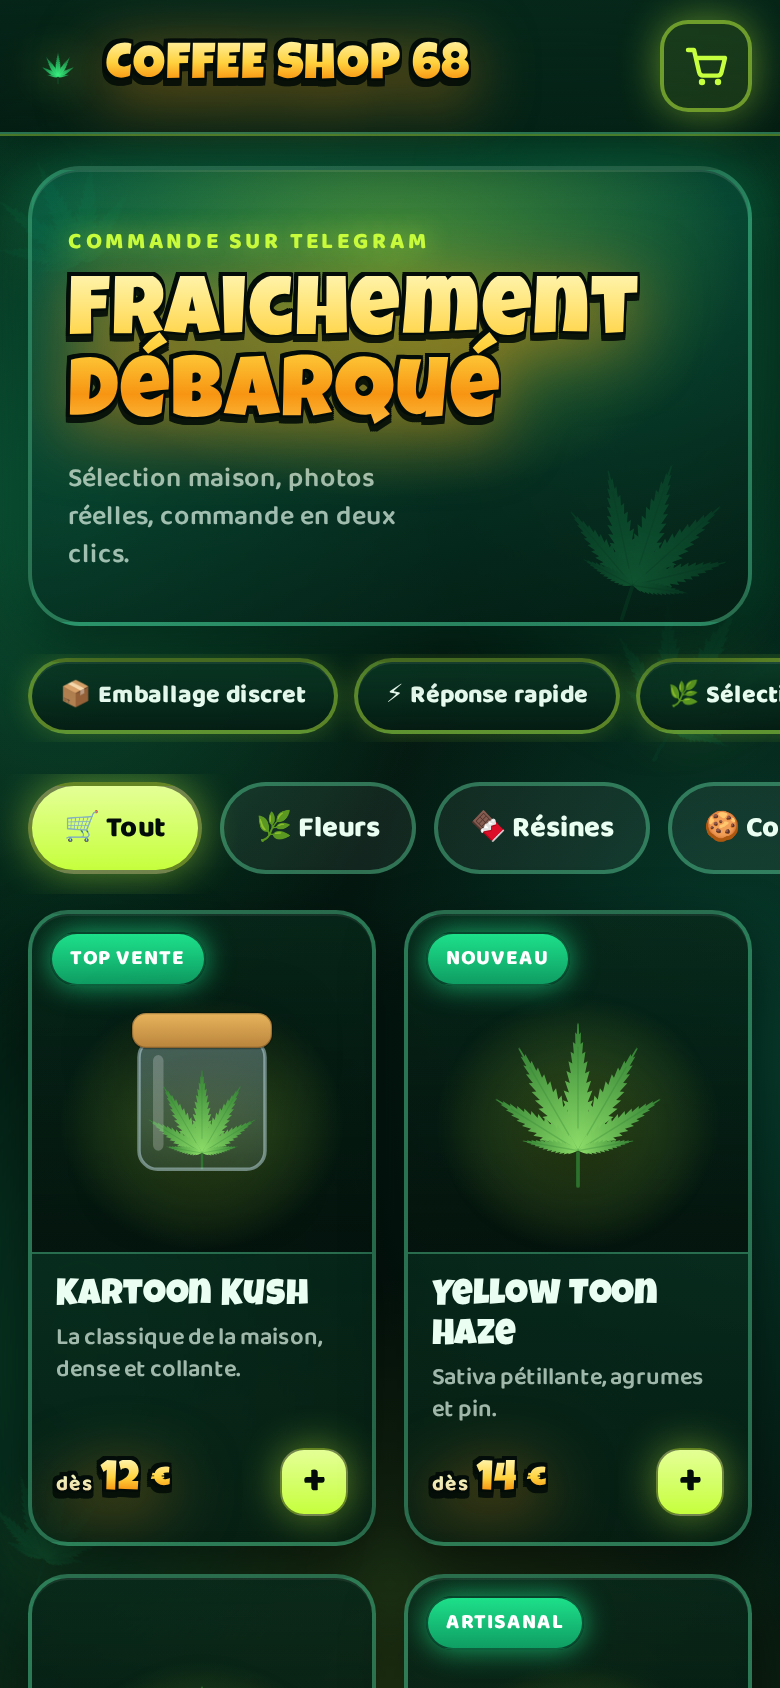
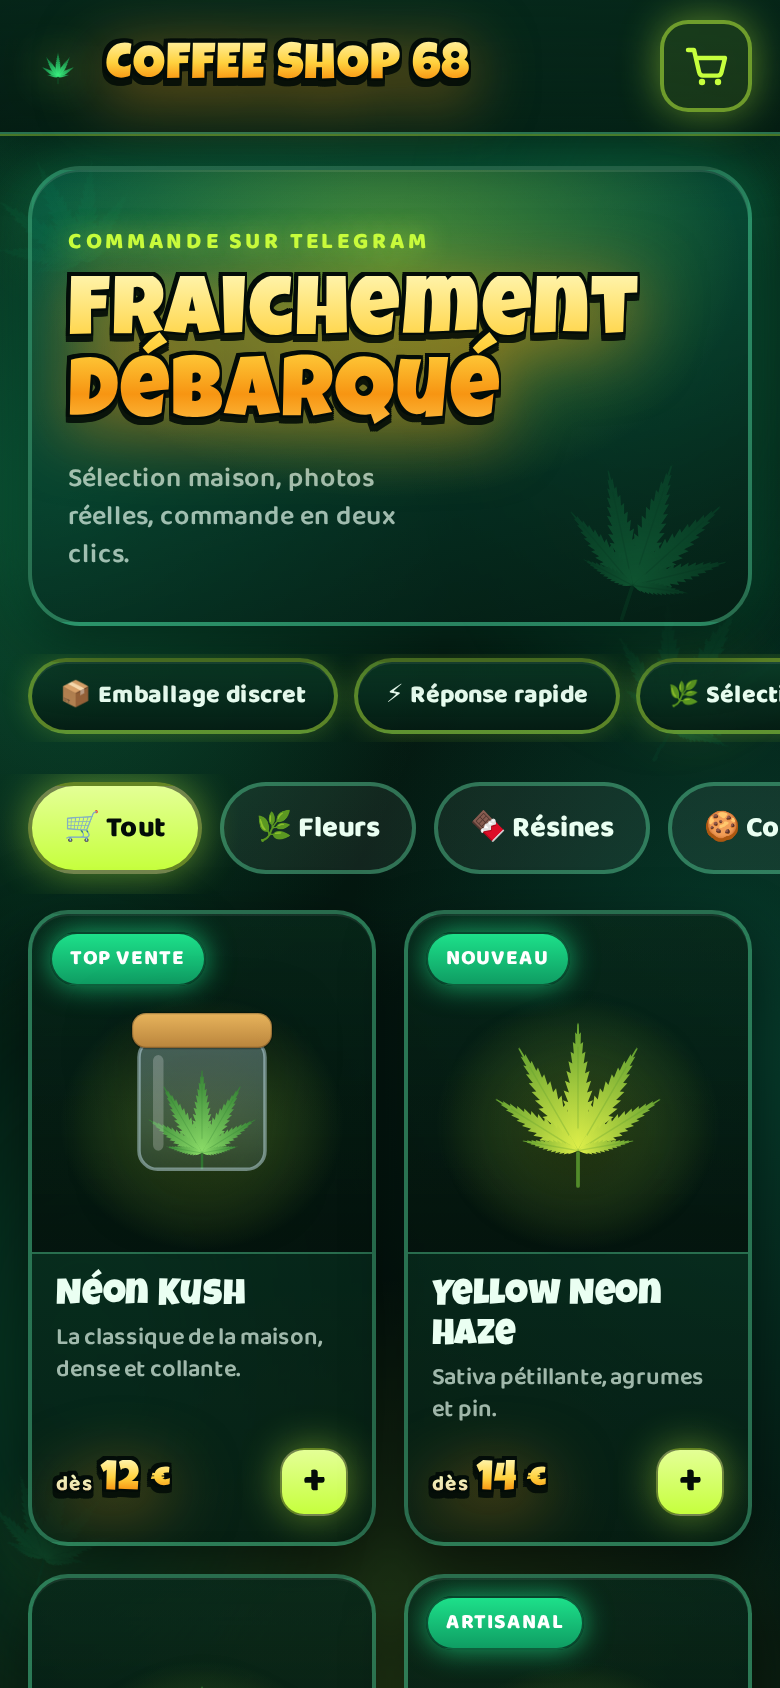
Catalogue : noms de produits alignés sur COFFEE SHOP 68
Les fiches portaient encore l'ancienne marque cartoon (Kartoon Kush,
Brique Cartoon, Carton Collector…), ce qui jurait avec l'enseigne et la
direction néon.

- noms et descriptions repris dans le registre de la maison : Néon Kush,
  Yellow Neon Haze, Midnight Cookies, Brique 68, Dry Sift 68, Gummies
  Néon, Grinder 68, Kit du rouleur, Pack Collector 68
- les identifiants ne bougent pas : ils servent de clés aux commandes
  déjà passées et aux tests
- la sativa prend son propre visuel (bud-sativa.svg), jusqu'ici inutilisé
- docs/ : captures régénérées, exemple du README à jour

Tests : 41/41.

Claude-Session: https://claude.ai/code/session_01SaLWCn5JrsAtLehJG2s7sY

Changed region(s): [[0.6462, 0.6161, 0.8308, 0.7085], [0.0923, 0.7393, 0.4, 0.7701], [0.7385, 0.7393, 0.8615, 0.7701]]

diff --git a/server/data/products.js b/server/data/products.js
@@ -20,7 +20,7 @@ export const products = [
   {
     id: 'kartoon-kush',
     stock: null, // le stock est porté par les variantes
-    name: 'Kartoon Kush',
+    name: 'Néon Kush',
     category: 'fleurs',
     price: 1200,
     image: '/assets/products/jar.svg',
@@ -30,7 +30,7 @@ export const products = [
     description:
       "Fleur indica cultivée en intérieur, séchée lentement puis affinée trois semaines en bocal. " +
       "Nez terreux et sucré, fumée ronde. Le grand classique de la maison, celui qu'on garde " +
-      "pour le canapé et les dessins animés du dimanche soir.",
+      "pour le canapé et les séries du dimanche soir.",
     variants: [
       { id: '2g', label: '2 g', price: 1200, stock: 24 },
       { id: '5g', label: '5 g', price: 2700, stock: 12 },
@@ -40,10 +40,10 @@ export const products = [
   {
     id: 'yellow-toon-haze',
     stock: null, // le stock est porté par les variantes
-    name: 'Yellow Toon Haze',
+    name: 'Yellow Neon Haze',
     category: 'fleurs',
     price: 1400,
-    image: '/assets/products/bud.svg',
+    image: '/assets/products/bud-sativa.svg',
     badge: 'NOUVEAU',
     tags: ['Sativa', 'Jour'],
     short: 'Sativa pétillante, agrumes et pin.',
@@ -60,7 +60,7 @@ export const products = [
   {
     id: 'cardboard-cookies',
     stock: null, // le stock est porté par les variantes
-    name: 'Cardboard Cookies',
+    name: 'Midnight Cookies',
     category: 'fleurs',
     price: 1600,
     image: '/assets/products/bud.svg',
@@ -77,7 +77,7 @@ export const products = [
   {
     id: 'hash-brick',
     stock: null, // le stock est porté par les variantes
-    name: 'Brique Cartoon',
+    name: 'Brique 68',
     category: 'resines',
     price: 1800,
     image: '/assets/products/hash.svg',
@@ -95,7 +95,7 @@ export const products = [
   {
     id: 'toon-dry-sift',
     stock: 8,
-    name: 'Toon Dry Sift',
+    name: 'Dry Sift 68',
     category: 'resines',
     price: 2500,
     image: '/assets/products/hash.svg',
@@ -122,7 +122,7 @@ export const products = [
   {
     id: 'gummy-pack',
     stock: 40,
-    name: 'Gummies Kartoon',
+    name: 'Gummies Néon',
     category: 'comestibles',
     price: 1200,
     image: '/assets/products/cookie.svg',
@@ -136,7 +136,7 @@ export const products = [
   {
     id: 'grinder',
     stock: 15,
-    name: 'Grinder Cartoon 4 parts',
+    name: 'Grinder 68 · 4 parts',
     category: 'accessoires',
     price: 1500,
     image: '/assets/products/grinder.svg',
@@ -144,12 +144,12 @@ export const products = [
     short: 'Aluminium, 4 parties, tamis à pollen.',
     description:
       "Grinder aluminium quatre parties avec tamis et bac à pollen, dents aiguisées, " +
-      "aimant central. Sérigraphie cartoon exclusive de la maison sur le couvercle.",
+      "aimant central. Sérigraphie néon exclusive de la maison sur le couvercle.",
   },
   {
     id: 'rolling-kit',
     stock: 50,
-    name: 'Kit Roule-Carton',
+    name: 'Kit du rouleur',
     category: 'accessoires',
     price: 600,
     image: '/assets/products/box.svg',
@@ -170,14 +170,14 @@ export const products = [
     tags: ['Pack', 'Économique'],
     short: '3 fleurs + 1 résine + le kit complet.',
     description:
-      "Le carton d'entrée : 2 g de chaque fleur du moment, 2 g de résine pressée et le " +
-      "Kit Roule-Carton. Environ 15 % d'économie par rapport aux produits pris séparément. " +
+      "La boîte d'entrée : 2 g de chaque fleur du moment, 2 g de résine pressée et le " +
+      "Kit du rouleur. Environ 15 % d'économie par rapport aux produits pris séparément. " +
       "Livré dans une boîte kraft illustrée, prête à offrir.",
   },
   {
     id: 'pack-collector',
     stock: 5,
-    name: 'Carton Collector',
+    name: 'Pack Collector 68',
     category: 'packs',
     price: 8900,
     image: '/assets/products/box.svg',
@@ -186,8 +186,8 @@ export const products = [
     short: 'La grosse boîte, stickers et grinder inclus.',
     description:
       "Édition limitée numérotée : 5 g de fleur premium, 3 g de tamisé, le grinder sérigraphié, " +
-      "une planche de stickers cartoon et un poster A3. Cinquante boîtes seulement, " +
-      "puis on passe au dessin suivant.",
+      "une planche de stickers néon et un poster A3. Cinquante boîtes seulement, " +
+      "puis on passe à la série suivante.",
   },
 ];
 

diff --git a/README.md b/README.md
@@ -139,12 +139,12 @@ redémarre. Une entrée ressemble à ça :
 
 ```js
 {
-  id: 'kartoon-kush',            // identifiant unique, sans espaces
-  name: 'Kartoon Kush',
+  id: 'neon-kush',               // identifiant unique, sans espaces
+  name: 'Néon Kush',
   category: 'fleurs',            // doit exister dans `categories`
   price: 1200,                   // EN CENTIMES : 1200 = 12,00 €
   image: '/assets/products/jar.svg',
-  badge: 'TOP VENTE',            // pastille rouge, optionnelle
+  badge: 'TOP VENTE',            // pastille rose, optionnelle
   tags: ['Indica', 'Nuit'],
   short: 'Texte court affiché sur la vignette.',
   description: 'Texte long affiché dans la fiche produit.',
